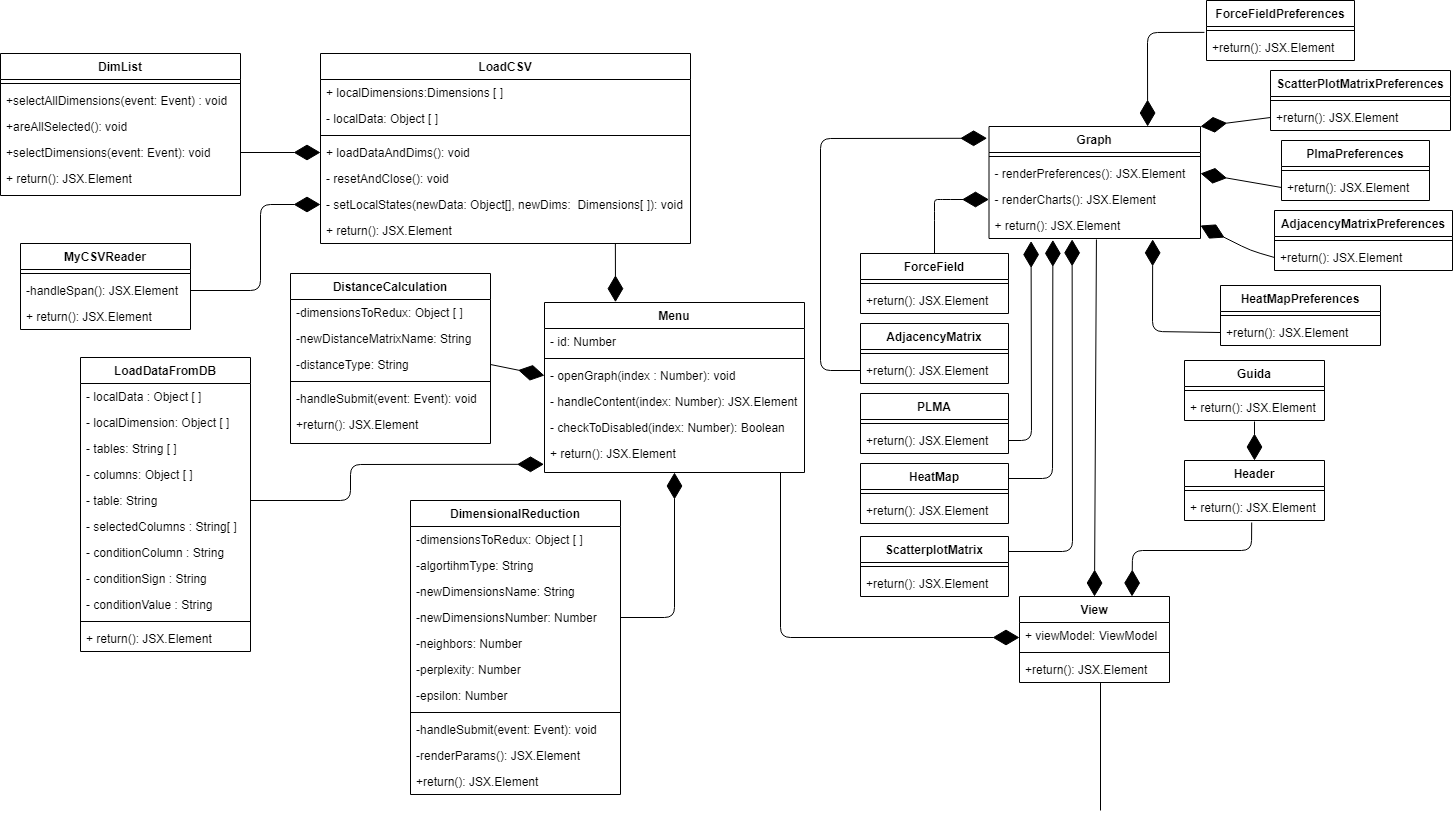
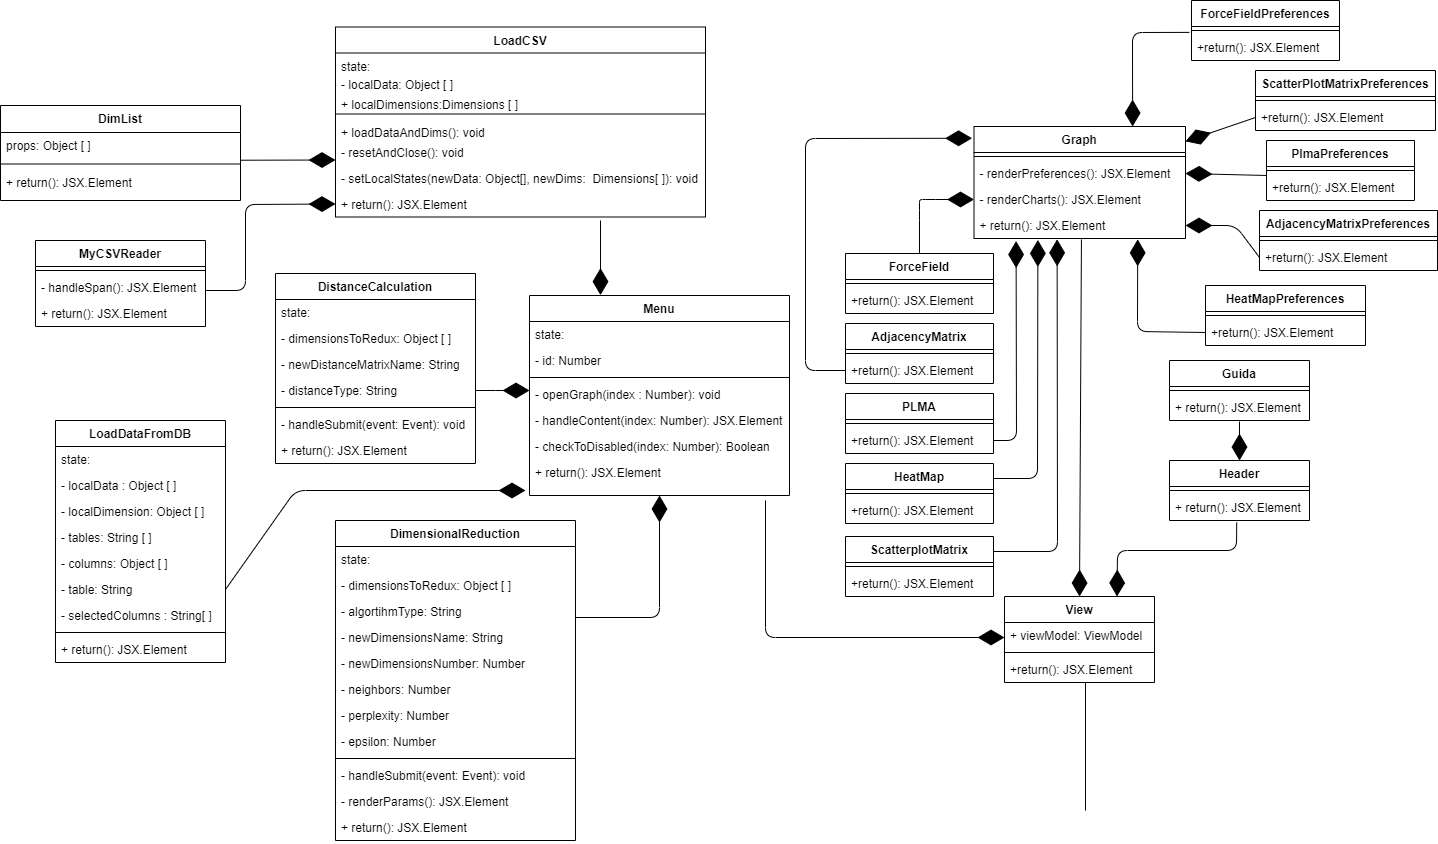
coommi

diff --git a/DocEsterna/AllegatoTecnico/Section/ArchitetturaProdotto.tex b/DocEsterna/AllegatoTecnico/Section/ArchitetturaProdotto.tex
@@ -11,27 +11,78 @@ Il pattern architetturale scelto dal gruppo per lo sviluppo del progetto è il M
 
 Il passaggio dei dati dal \textit{Model} alle varie componenti grafiche avviene attraverso l'utilizzo di un \textit{Context React}, al quale viene passato un'istanza del \textit{ViewModel}. L'utilizzo di un \glo{\textit{Context React}} ci permette di accedere al valore corrente del \textit{ViewModel} in qualsiasi porzione della \textit{View}, senza doverlo passare di componente in componente attraverso le \glo{props}. Nella radice dell'applicazione viene infatti creata un'istanza del \textit{ViewModel}, che viene passata ad un \textit{Context.Provider}, che fa da contenitore per tutta la \textit{View}. All'interno di tale contenitore ogni \glo{component} può utilizzare un \glo{hook} per accedere al \textit{Context React} ed utilizzare il valore più recente del \textit{ViewModel}.\\ È stato scelto di utilizzare un \textit{Context React} per il passaggio dei dati in quanto la nostra applicazione é molto profonda e non risultava conveniente passare i dati per molti componenti rischiando, nel peggiore dei casi, di doverli utilizzare nell'ultimo della gerarchia.\\
 Per poter fare in modo che una componente della \textit{View} si renderizzi non solo al cambiamento del suo stato interno ma anche al cambiamento dei dati nel \textit{Model}, abbiamo utilizzato la libreria \glo{\textit{Mobx}}. Questa ci permette di implementare l'\textbf{observer pattern}, non supportato di default da \textit{React}. A tale scopo, Mobx permette di segnare delle classi (o attributi di esse) come "\textit{observable}" e di costruire dei componenti della View come "\textit{observer}". Quest'ultimi vengono automaticamente ri-renderizzati al cambiamento di un qualsiasi attributo \textit{observable}.
+\newpage
+
+\subsection{Diagramma dei package}
+\begin{figure}[hb]
+\includegraphics[width=18cm]{Extra/Allegato Tecnico-Package}
+\centering
+\caption{Diagramma dei package ....}
+\end{figure}
+\begin{figure}[hb]
+\includegraphics[width=12cm]{Extra/Allegato Tecnico-Package 2}
+\centering
+\caption{Diagramma dei package .....}
+\end{figure}
+\newpage
+
 \subsection{Diagrammi delle classi}
-\subsection{Diagrammi dei package}
-\subsection{Diagrammi di attività}
+\begin{figure}[hb]
+\includegraphics[width=14.8cm]{Extra/Allegato Tecnico-Class}
+\centering
+\caption{Diagramma delle classi generale}
+\end{figure}
+
+\begin{landscape}
+\vspace*{\fill}
+\begin{figure}[hb]
+\includegraphics[width=\linewidth]{Extra/Allegato Tecnico-Model}
+\centering
+\caption{Diagramma delle classi, zoom sul modello}
+\end{figure}
+\vfill
+\end{landscape}
+
+\begin{landscape}
+\vspace*{\fill}
+\begin{figure}[hb]
+\includegraphics[width=21cm]{Extra/Allegato Tecnico-View}
+\centering
+\caption{Diagramma delle classi, zoom sulla vista}
+\end{figure}
+\vfill
+\end{landscape}
+
+\begin{landscape}
+\vspace*{\fill}
+\begin{figure}[hb]
+\includegraphics[width=\linewidth ]{Extra/Allegato Tecnico-ViewModel}
+\centering
+\caption{Diagramma delle classi, zoom sul view-model}
+\end{figure}
+\vfill
+\end{landscape}
+\newpage
 \subsection{Diagrammi di sequenza}
 \begin{figure}[hb]
-\includegraphics[width=15.8cm]{Extra/Allegato Tecnico-Sequenza-DR}
+\includegraphics[width=12cm]{Extra/Allegato Tecnico-Sequenza-DR}
 \centering
 \caption{Diagramma di sequenza che modella il processo di riduzione dimensionale}
 \end{figure}
-
+\newpage
 \begin{figure}[hb]
-\includegraphics[width=18cm]{Extra/Allegato Tecnico-Sequenza-PLMApref}
+\includegraphics[width=16cm]{Extra/Allegato Tecnico-Sequenza-PLMApref}
 \centering
 \caption{Diagramma di sequenza che modella .............}
 \end{figure}
-
+\newpage
 \begin{figure}[hb]
-\includegraphics[width=18cm]{Extra/Allegato Tecnico-Sequenza-PLMA}
+\includegraphics[width=15.5cm]{Extra/Allegato Tecnico-Sequenza-PLMA}
 \centering
 \caption{Diagramma di sequenza che modella .............}
 \end{figure}
+\newpage
+
 \subsection{Design pattern utilizzati}
 Per implementare il processo di riduzione dimensionale è stato utilizzato il design pattern \textbf{strategy}. Questo è stato possibile perché l'unica sostanziale differenza era determinata dalla tipologia di algoritmo applicato. Definire una famiglia di algoritmi e isolarli all'interno di un oggetto ci ha permesso di renderli interscambiabili dinamicamente ed evitare duplicazione di codice. 
 \begin{itemize}
@@ -41,40 +92,3 @@ Per implementare il processo di riduzione dimensionale è stato utilizzato il de
 \end{itemize}
 
 Nel nostro caso, il pattern si basa sul metodo \textbf{startDR()} che esegue la riduzione dimensionale sui dati scelti e ritorna le nuove dimensioni. La strategy viene passata come stringa e, una volta creata la classe concreta dell'algoritmo scelto, viene costruita l'apposita istanza dalla libreria \textit{Druid.js}.\\Eventuali integrazioni con ulteriori algoritmi di riduzione dimensionale potranno essere effettuate derivando nuove classi concrete dall'interfaccia esposta.
-
-\begin{figure}[hb]
-\includegraphics[width=18cm]{Extra/Allegato Tecnico-Class}
-\centering
-\caption{Diagramma ...............................}
-\end{figure}
-
-\begin{landscape}
-\vspace*{\fill}
-\begin{figure}[hb]
-\includegraphics[width=\linewidth]{Extra/Allegato Tecnico-Model}
-\centering
-\caption{Diagramma ...............................}
-\end{figure}
-\vfill
-\end{landscape}
-
-
-\begin{landscape}
-\vspace*{\fill}
-\begin{figure}[hb]
-\includegraphics[width=\linewidth]{Extra/Allegato Tecnico-View}
-\centering
-\caption{Diagramma ...............................}
-\end{figure}
-\vfill
-\end{landscape}
-
-\begin{landscape}
-\vspace*{\fill}
-\begin{figure}[hb]
-\includegraphics[width=\linewidth]{Extra/Allegato Tecnico-ViewModel}
-\centering
-\caption{Diagramma ...............................}
-\end{figure}
-\vfill
-\end{landscape}
